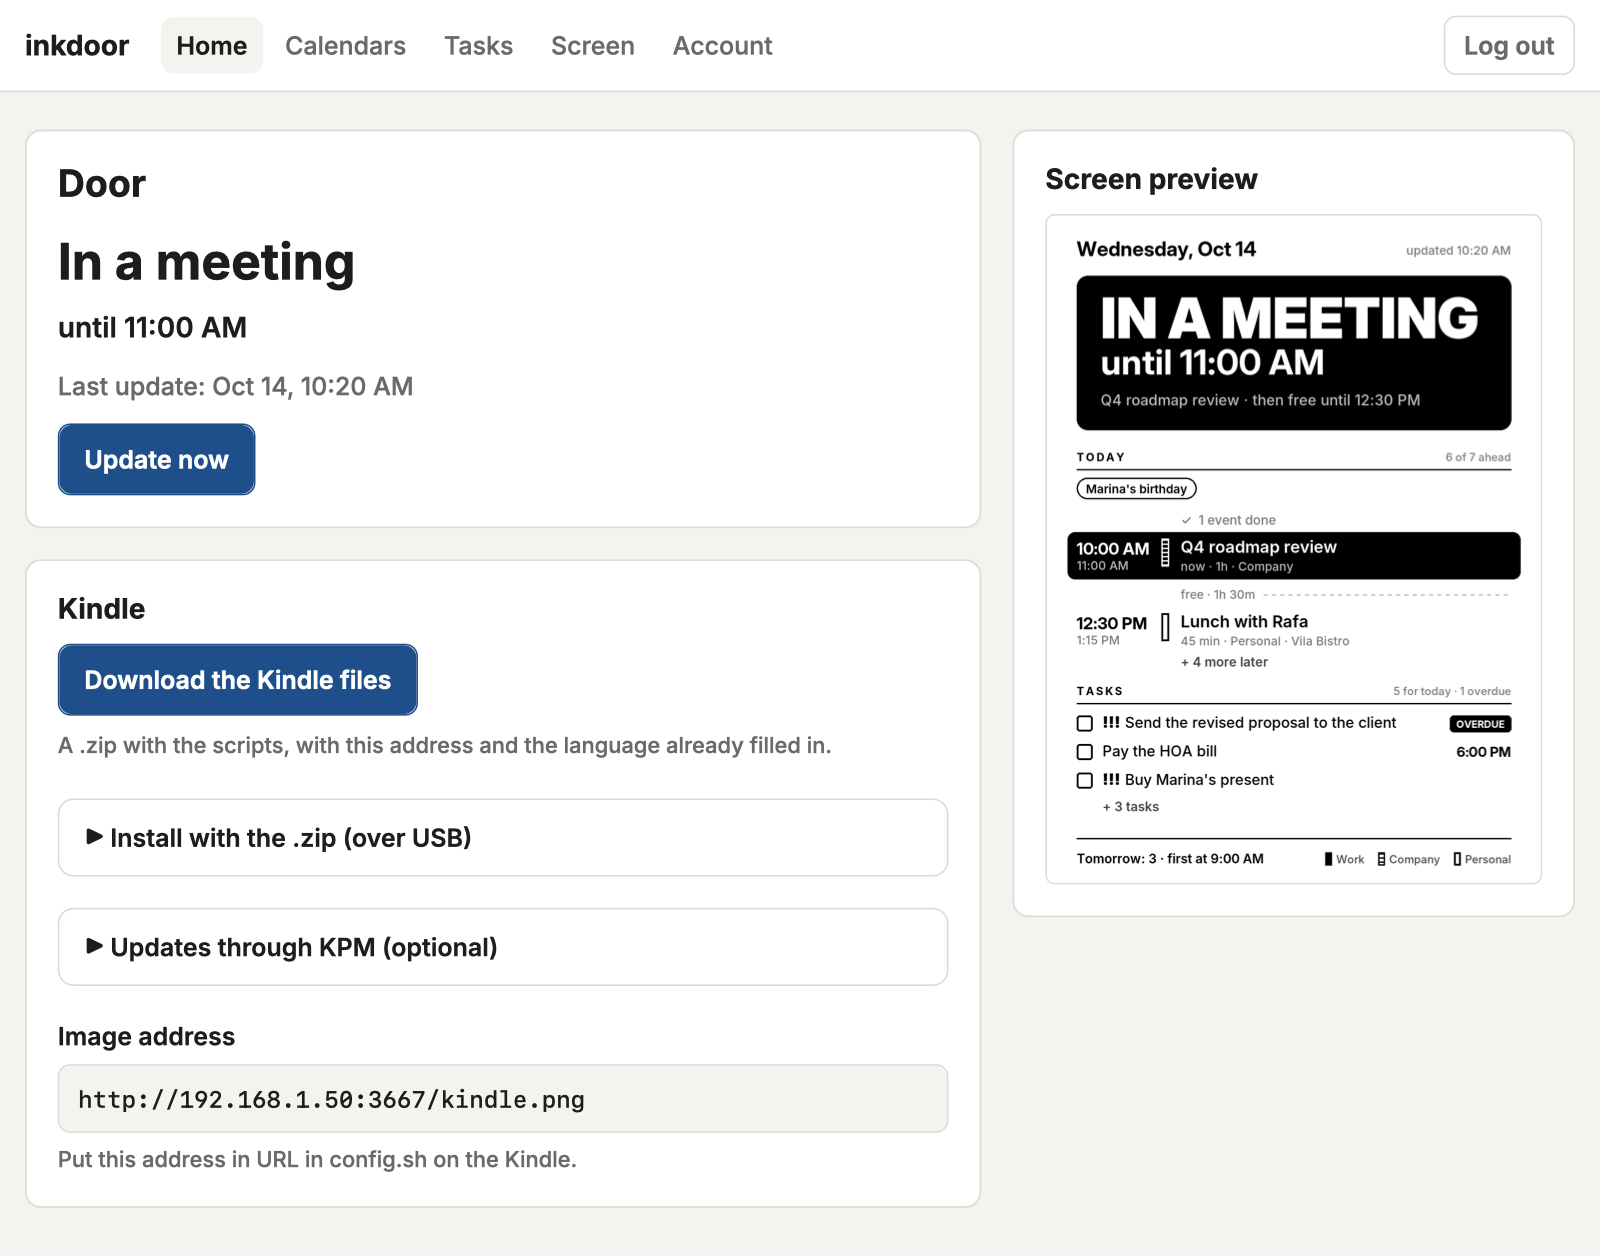
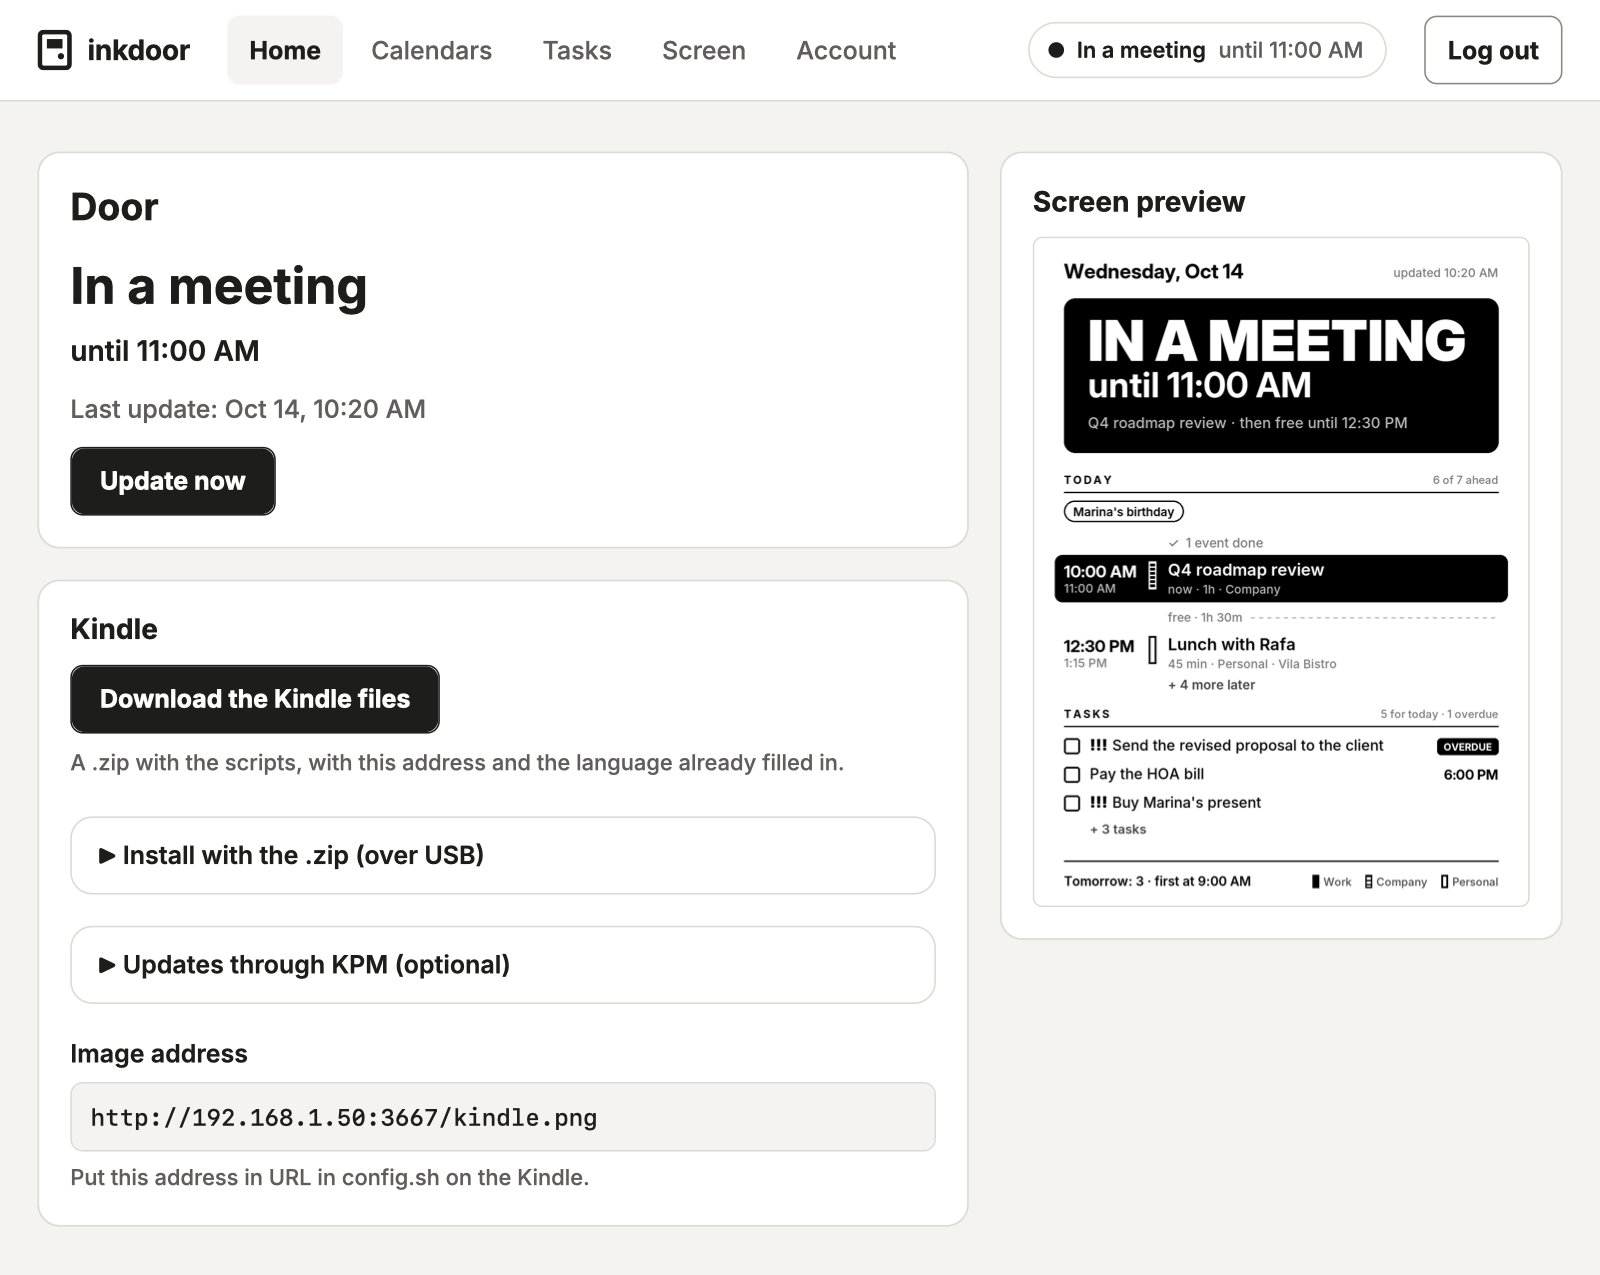
Admin: handle the first review round
- Form macros match the current value as text (config numbers vs. form strings).
- The door chip is hidden when the image is missing or stale.
- Home reloads when a new screen is drawn, so the chip changes with it.
- Invalid selects get the error border; text_field reuses the describedby helper.
- Regenerate the admin screenshots.

Refs #117.

diff --git a/src/inkdoor/web/templates/_macros.html b/src/inkdoor/web/templates/_macros.html
@@ -10,12 +10,17 @@
 {% if errors.get(name) %}<p class="field-error" id="{{ name }}-error">{{ errors[name] }}</p>{% endif %}
 {%- endmacro %}
 
+{# ids of the texts that describe a field: its unit, its help, a shared help, its error #}
+{% macro _described(name, errors, extra=[]) -%}
+{%- set ids = (extra | select | list) + ([name ~ "-error"] if errors.get(name) else []) -%}
+{%- if errors.get(name) %} aria-invalid="true"{% endif -%}
+{%- if ids %} aria-describedby="{{ ids | join(" ") }}"{% endif -%}
+{%- endmacro %}
+
 {# described_by: the id of a help text outside the field (one shared by a pair of fields) #}
 {% macro text_field(name, label, value, errors, help=None, maxlength=None, required=False,
                     placeholder=None, type="text", inputmode=None, min=None, max=None,
                     described_by=None) -%}
-{%- set ids = ([name ~ "-help"] if help else []) + ([described_by] if described_by else [])
-              + ([name ~ "-error"] if errors.get(name) else []) %}
 <div class="field">
   <label for="{{ name }}">{{ label }}</label>
   <input id="{{ name }}" name="{{ name }}" type="{{ type }}" value="{{ value }}"
@@ -25,8 +30,7 @@
          {%- if inputmode %} inputmode="{{ inputmode }}"{% endif %}
          {%- if min is not none %} min="{{ min }}"{% endif %}
          {%- if max is not none %} max="{{ max }}"{% endif %}
-         {%- if errors.get(name) %} aria-invalid="true"{% endif %}
-         {%- if ids %} aria-describedby="{{ ids | join(" ") }}"{% endif %}>
+         {{- _described(name, errors, [(name ~ "-help") if help else None, described_by]) }}>
   {% if help %}<p class="help" id="{{ name }}-help">{{ help }}</p>{% endif %}
   {{ field_error(name, errors) }}
 </div>
@@ -119,20 +123,14 @@
 {%- endmacro %}
 
 
-{# ids of the texts that describe a field: its unit, its help, a shared help, its error #}
-{% macro _described(name, errors, extra=[]) -%}
-{%- set ids = (extra | select | list) + ([name ~ "-error"] if errors.get(name) else []) -%}
-{%- if errors.get(name) %} aria-invalid="true"{% endif -%}
-{%- if ids %} aria-describedby="{{ ids | join(" ") }}"{% endif -%}
-{%- endmacro %}
-
-{# The only time control in the admin. options: (value, label) pairs, labels from Translator.time() #}
+{# The only time control in the admin. options: (value, label) pairs, labels from Translator.time().
+   Values are compared as text: config.toml holds numbers where a form posts strings. #}
 {% macro time_select(name, label, value, options, errors, described_by=None) -%}
 <div class="field field-time">
   <label for="{{ name }}">{{ label }}</label>
   <select id="{{ name }}" name="{{ name }}" class="input-short"{{ _described(name, errors, [described_by]) }}>
     {% for option, text in options %}
-    <option value="{{ option }}"{% if option == value %} selected{% endif %}>{{ text }}</option>
+    <option value="{{ option }}"{% if value is not none and option | string == value | string %} selected{% endif %}>{{ text }}</option>
     {% endfor %}
   </select>
   {{ field_error(name, errors) }}
@@ -165,7 +163,7 @@
   <div class="segments">
     {% for option, text in options %}
     <label><input type="radio" name="{{ name }}" value="{{ option }}"
-      {%- if option == value %} checked{% endif %}><span>{{ text }}</span></label>
+      {%- if value is not none and option | string == value | string %} checked{% endif %}><span>{{ text }}</span></label>
     {% endfor %}
   </div>
   {{ field_error(name, errors) }}
@@ -174,12 +172,13 @@
 
 {# Several choices drawn as toggle chips: checkboxes. values: the checked ones #}
 {% macro chips(name, legend, values, options, errors) -%}
+{%- set checked = values | map("string") | list %}
 <fieldset class="field chips"{% if errors.get(name) %} aria-describedby="{{ name }}-error"{% endif %}>
   <legend>{{ legend }}</legend>
   <div class="chip-row">
     {% for option, text in options %}
     <label><input type="checkbox" name="{{ name }}" value="{{ option }}"
-      {%- if option in values %} checked{% endif %}><span>{{ text }}</span></label>
+      {%- if option | string in checked %} checked{% endif %}><span>{{ text }}</span></label>
     {% endfor %}
   </div>
   {{ field_error(name, errors) }}

diff --git a/src/inkdoor/web/static/admin.js b/src/inkdoor/web/static/admin.js
@@ -7,7 +7,8 @@
 //                           element with that id; data-error is shown when the test cannot run
 //   button[data-copy]       copies the text of the element with that id (shown only with JS)
 //   [data-preview]          the home page's preview: with data-poll (after a save or Update now),
-//                           asks /status.json every 3 s for a minute and shows the new screen
+//                           asks /status.json every 3 s for a minute and reloads the page when
+//                           a new screen was drawn
 (function () {
   "use strict";
 
@@ -143,29 +144,6 @@
   var POLL_EVERY = 3000;
   var POLL_TIMES = 20;  // one minute
 
-  function setStatus(name, text) {
-    var element = document.querySelector("[data-status=" + name + "]");
-    if (element) {
-      element.textContent = text || "";
-    }
-    return element;
-  }
-
-  function showErrors(errors) {
-    var box = document.querySelector("[data-status=errors]");
-    var list = box ? box.querySelector("ul") : null;
-    if (!list) {
-      return;
-    }
-    list.textContent = "";
-    (errors || []).forEach(function (source) {
-      var item = document.createElement("li");
-      item.textContent = source;
-      list.appendChild(item);
-    });
-    box.hidden = !errors || errors.length === 0;
-  }
-
   function pollPreview(frame) {
     if (!window.fetch || !window.JSON) {
       return;
@@ -179,19 +157,6 @@
 
     function stop() {
       window.clearInterval(timer);
-    }
-
-    function show(data) {
-      var image = frame.querySelector("img");
-      if (!image || !setStatus("word", data.word)) {
-        window.location.reload();  // nothing drawn when the page loaded: load it whole
-        return;
-      }
-      image.src = "/kindle.png?t=" + Date.now();
-      setStatus("headline", data.headline);
-      setStatus("updated", data.updated);
-      showErrors(data.errors);
-      frame.setAttribute("data-at", data.at);
     }
 
     function check() {
@@ -211,9 +176,9 @@
         })
         .then(function (data) {
           if (data && data.at && data.at !== at) {
-            at = data.at;
             stop();
-            show(data);
+            // the whole page: the status, the preview and the chip in the top bar change together
+            window.location.reload();
           }
         })
         .catch(function () {

diff --git a/src/inkdoor/web/static/admin.css b/src/inkdoor/web/static/admin.css
@@ -455,7 +455,8 @@ button[data-busy-label]:disabled {
   margin: 0;
 }
 
-input[aria-invalid="true"] {
+input[aria-invalid="true"],
+select[aria-invalid="true"] {
   border-color: var(--danger);
 }
 

diff --git a/src/inkdoor/web/__init__.py b/src/inkdoor/web/__init__.py
@@ -353,6 +353,19 @@ def create_app(state: ServerState, *, clock=time.time, monotonic=time.monotonic)
             response.headers[name] = value
         return response
 
+    def door_status():
+        """What the door says, for the chip in the top bar, or None when nobody knows: nothing
+        rendered yet, no image, or an image so old that /kindle.png serves the stale notice
+        instead (the chip must not repeat an old "Free")."""
+        last = state.last_render
+        if last is None:
+            return None
+        try:
+            mtime = os.stat(os.path.join(state.output_dir, IMAGE_NAME)).st_mtime
+        except OSError:
+            return None
+        return None if state.image_stale(clock(), mtime) else last
+
     @app.context_processor
     def _template_globals():
         session = g.get("session")
@@ -363,8 +376,7 @@ def create_app(state: ServerState, *, clock=time.time, monotonic=time.monotonic)
 
         # notices are taken only when a full page calls notices(), never by a fragment
         return {"t": t(), "csrf_field": csrf_field, "logged_in": session is not None,
-                # what the door says, for the chip in the top bar: only for a logged-in admin
-                "door": state.last_render if session is not None else None,
+                "door": door_status() if session is not None else None,
                 "notices": lambda: pop_notices(session),
                 "docs_url": lambda page: docs_url(t().language, page)}
 

diff --git a/tests/test_web_core.py b/tests/test_web_core.py
@@ -810,3 +810,20 @@ def test_pages_carry_no_inline_style_or_script(app, rendered):
         assert " style=" not in page and "<style" not in page, path
         assert re.search(r"<script(?![^>]*\bsrc=)", page) is None, path
         assert re.search(r"\son[a-z]+=", page) is None, path
+
+
+def test_no_door_chip_while_the_image_is_stale(app, state, clock, rendered):
+    """A stuck render loop: the Kindle gets the stale notice, so the chip must not repeat an
+    old status as what the door says."""
+    state.last_render = RenderInfo(dt.datetime(2026, 10, 14, 16, 30), "Free", "until 5:00 PM", [])
+    at_time(clock, rendered, 2_000_000.0)
+    state.next_render_at = clock()
+    c = logged_in(app)
+    assert 'class="door-chip"' in get(c, "/screen").get_data(as_text=True)
+    clock.advance(ServerState.STALE_AFTER + 1)
+    assert 'class="door-chip"' not in get(c, "/screen").get_data(as_text=True)
+
+
+def test_no_door_chip_without_an_image(app, state):
+    state.last_render = RenderInfo(dt.datetime(2026, 10, 14, 16, 30), "Free", "until 5:00 PM", [])
+    assert 'class="door-chip"' not in get(logged_in(app), "/screen").get_data(as_text=True)

diff --git a/tests/test_web_pages.py b/tests/test_web_pages.py
@@ -1622,3 +1622,16 @@ def test_account_page_has_a_single_log_out(logged):
     page = logged.get("/account").get_data(as_text=True)
     assert page.count('action="/logout"') == 1
     assert Translator("en-US")("admin.session_help") in page
+
+
+def test_macros_find_the_current_value_whatever_its_type(app):
+    """config.toml holds numbers (workday_start = 8) where the form options are strings."""
+    m = _macros(app)
+    html = str(m.time_select("workday_start", "Starts at", 8, [("0", "0:00"), ("8", "8:00")], {}))
+    assert re.search(r'<option value="8"\s+selected', html) and html.count("selected") == 1
+    chips = str(m.chips("workdays", "Days", [0, 2], [("0", "Mon"), ("1", "Tue"), ("2", "Wed")], {}))
+    assert chips.count("checked") == 2 and not re.search(r'value="1"\s+checked', chips)
+    seg = str(m.segmented("n", "N", 2, [("1", "One"), ("2", "Two")], {}))
+    assert re.search(r'value="2"\s+checked', seg) and seg.count("checked") == 1
+    none = str(m.time_select("light_off", "Off", None, [("None", "?"), ("", "-")], {}))
+    assert "selected" not in none
